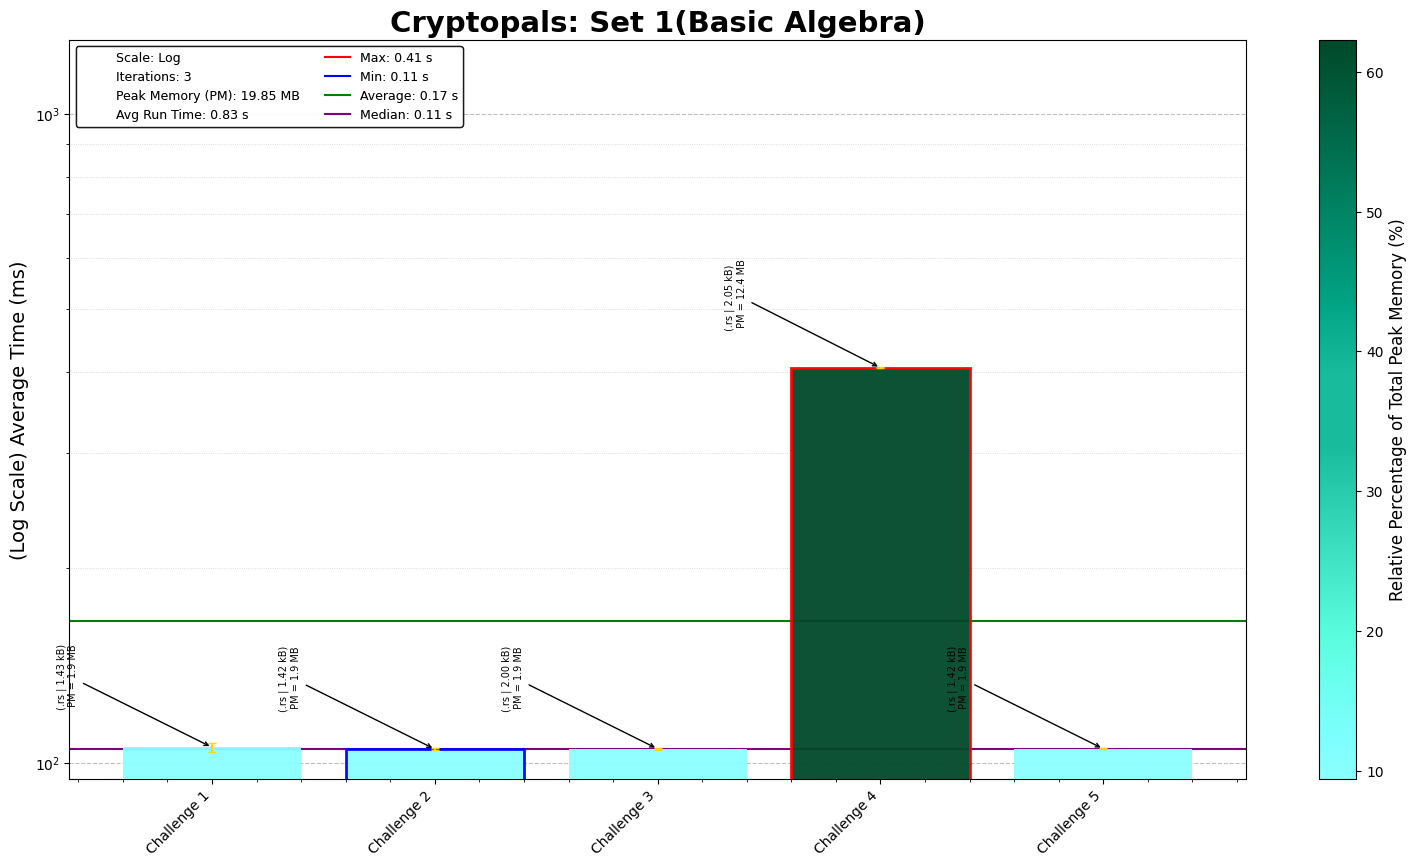
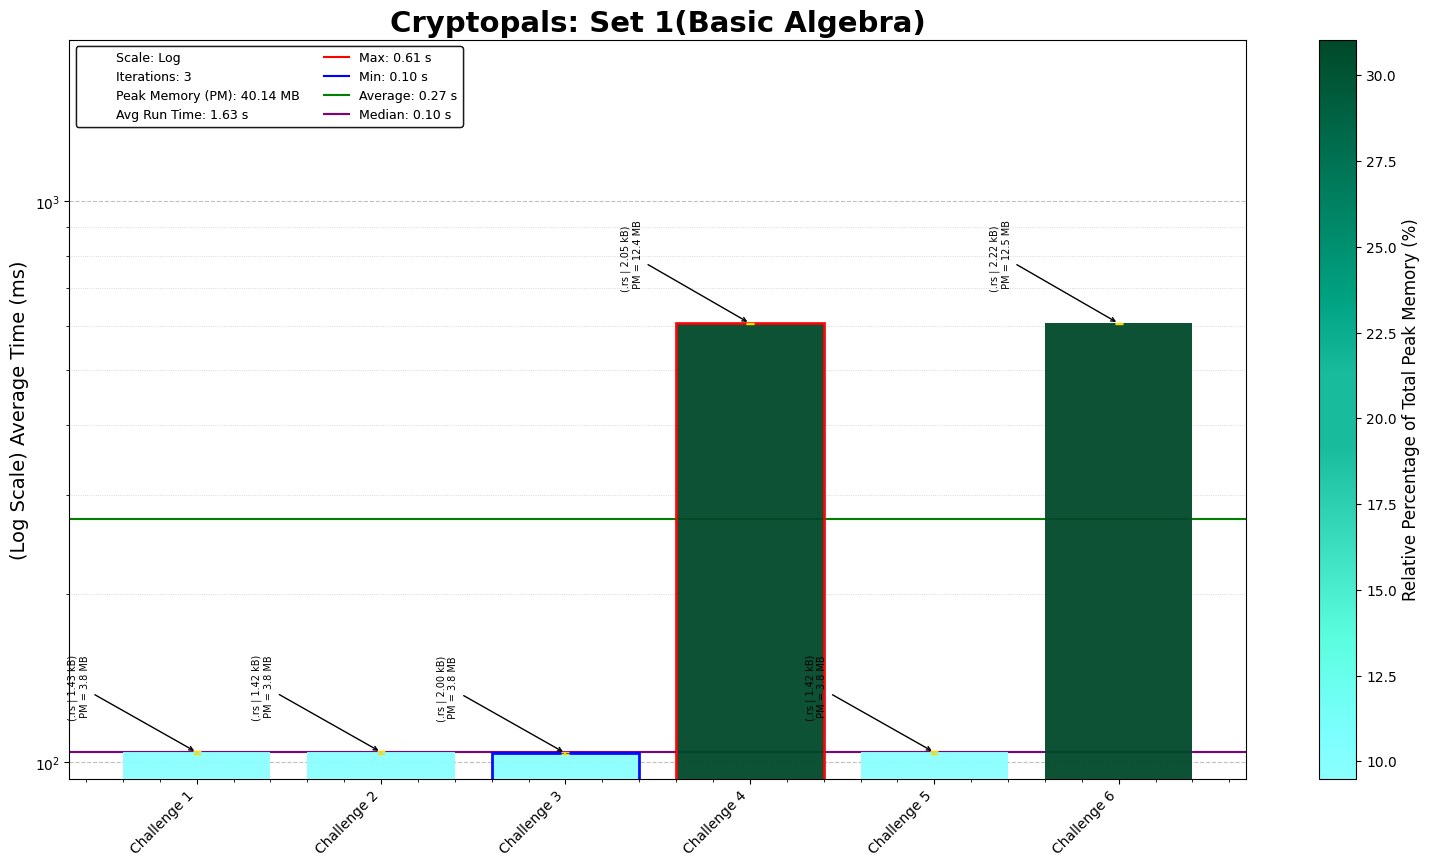
Cryptopals Set 1, Challenge 6: Break repeating-key XOR

diff --git a/src/basics/repeating_key.rs b/src/basics/repeating_key.rs
@@ -1,0 +1,142 @@
+
+use itertools::Itertools; // 0.10 or latest version
+use std::collections::HashMap;
+use crate::{ALL_CHARS};
+use crate::basics::xor_cipher::{test_xor_key, chi_square};
+
+/// Decode a Base64 string into a Vec<u8>
+/// Returns an error if the input is not valid Base64
+pub fn base64_to_bytes(line: &str) -> Result<Vec<u8>, String> {
+    // Base64 character set
+    const BASE64_TABLE: &[u8; 64] =
[1 lines of base64/hex data omitted]
+
+    let mut result = Vec::new();
+    let mut buffer = 0u32;
+    let mut bits_collected = 0;
+
+    for c in line.chars() {
+        if c == '=' {
+            break; // padding reached
+        }
+
+        // Find value in base64 table
+        let value = match BASE64_TABLE.iter().position(|&x| x == c as u8) {
+            Some(v) => v as u32,
+            None => return Err(format!("Invalid base64 character '{}'", c)),
+        };
+
+        buffer = (buffer << 6) | value;
+        bits_collected += 6;
+
+        if bits_collected >= 8 {
+            bits_collected -= 8;
+            let byte = (buffer >> bits_collected) as u8 & 0xFF;
+            result.push(byte);
+        }
+    }
+
+    Ok(result)
+}
+
+/// Convert bytes to bits
+pub fn bytes_to_bits(input: &[u8]) -> Vec<String> {
+    input
+        .iter()
+        .map(|byte| format!("{:08b}", byte)) // each u8 → "01110100"
+        .collect()
+}
+
+/// Compute Hamming (edit) distance between two byte slices
+pub fn edit_distance(bytes_1: Vec<u8>, bytes_2: Vec<u8>) -> u32 {
+    assert_eq!(bytes_1.len(), bytes_2.len(), "Inputs must be the same length");
+
+    bytes_1
+        .iter()
+        .zip(bytes_2.iter())
+        .map(|(&b1, &b2)| (b1 ^ b2).count_ones())
+        .sum()
+}
+
+/// Compute the average normalized edit distance for a list of key sizes
+pub fn compute_keysize(bytes_list: &[u8], min_keysize: usize, max_keysize: usize, num_chunks: usize) -> HashMap<usize, f32> {
+    let keysize_list: Vec<usize> = (min_keysize..=max_keysize).collect();
+    let mut keysize_dict: HashMap<usize, f32> = HashMap::new();
+
+    for &test_keysize in &keysize_list {
+        // Take the first `num_chunks` chunks of size `test_keysize`
+        let chunks: Vec<&[u8]> = bytes_list.chunks(test_keysize).take(num_chunks).collect();
+
+        // Generate all combinations of 2 chunks and compute edit distances
+        let mut edit_list: Vec<i32> = Vec::new();
+        for combo in chunks.iter().combinations(2) {
+            let combo_edit: u32 = edit_distance(combo[0].to_vec(), combo[1].to_vec());
+            edit_list.push(combo_edit as i32);
+        }
+
+        if !edit_list.is_empty() {
+            let edit_sum: i32 = edit_list.iter().sum();
+            let edit_len: usize = edit_list.len();
+            // Convert to f32 for float division
+            let normalized_edits: f32 = (edit_sum as f32 / edit_len as f32) / test_keysize as f32;
+
+            // Update the HashMap storing floats
+            keysize_dict.insert(test_keysize, normalized_edits as f32);
+        }
+    }
+
+    keysize_dict
+}
+
+/// Transpose chunks of text into blocks
+pub fn transpose_chunks(bytes_list: &Vec<u8>, keysize: usize) -> Vec<Vec<u8>> {
+    let mut chunks: Vec<Vec<u8>> = Vec::with_capacity(keysize);
+
+    for i in 0..keysize {
+        let mut chunk = Vec::new();
+        let mut j = i;
+        while j < bytes_list.len() {
+            chunk.push(bytes_list[j]);
+            j += keysize;
+        }
+        chunks.push(chunk);
+    }
+
+    chunks
+}
+
+pub fn decipher_xor_key(bytes_list: Vec<u8>, test_key: usize) -> (Vec<u8>, f64) {
+    let chunks: Vec<Vec<u8>> = transpose_chunks(&bytes_list, test_key);
+    let mut key_bytes: Vec<u8> = Vec::new();
+    let mut total_score: f64 = 0.00;
+
+    for (_, raw_bytes) in chunks.iter().enumerate() {
+        let mut cipher_dict: HashMap<String, String> = HashMap::new();
+        let mut min_score: f64 = f64::INFINITY;
+        let mut key_char: char = '\0';
+
+        for c in ALL_CHARS.chars() {
+            let norm_key: String = c.to_string();
+            if cipher_dict.contains_key(&norm_key) {
+                continue;
+            }
+
+            let test_cipher: String = test_xor_key(&raw_bytes, &c.to_string());
+            let chi_score: f64 = chi_square(&test_cipher);
+            cipher_dict.insert(norm_key.clone(), test_cipher.clone());
+
+            if chi_score <= min_score {
+                min_score = chi_score;
+                key_char = c;
+            }
+        }
+
+        // push the byte instead of the char
+        key_bytes.push(key_char as u8);
+        total_score += min_score;
+    }
+
+    let average_score: f64 = total_score / test_key as f64;
+    (key_bytes, average_score)
+
+}

diff --git a/set_01/cryptopals_06.rs b/set_01/cryptopals_06.rs
@@ -1,0 +1,65 @@
+/* Cryptopals - Set 1, Challenge 6
+Solution Started: August 26, 2025
+Puzzle Link: https://cryptopals.com/sets/1/challenges/6
+Solution by: Abbas Moosajee
+Brief: [Break repeating-key XOR] */
+
+use std::env;
+use std::fs::File;
+use std::collections::HashMap;
+use std::io::{self, BufRead, BufReader};
+use cryptopals::{base64_to_bytes, compute_keysize, decipher_xor_key};
+
+fn main() -> io::Result<()> {
+    println!("Set 01, Challenge 06: Break repeating-key XOR");
+
+    let args: Vec<String> = env::args().collect();
+    let file_path = if args.len() > 1 {
+        &args[1]
+    } else {
+        "inputs/challenge_06_input.txt"
+    };
+
+    println!("Reading file: {}", file_path);
+
+    let file: File = File::open(file_path)?;
+    let reader: BufReader<File> = BufReader::new(file);
+
+    // Collect all decoded bytes line by line
+    let mut bytes_list: Vec<u8> = Vec::new();
+    for line_result in reader.lines() {
+        let line: String = line_result?;
+
+        match base64_to_bytes(&line) {
+            Ok(decoded) => bytes_list.extend(decoded),
+            Err(e) => eprintln!("Failed to decode line: {} ({})", line, e),
+        }
+    }
+
+    // Print as raw byte vector
+    let keysize_dict: HashMap<usize, f32> = compute_keysize(&bytes_list, 2, 40, 5);
+
+    // Collect into a vector and sort by value ascending
+    let mut sorted: Vec<(usize, f32)> = keysize_dict.into_iter().collect();
+    sorted.sort_by(|a: &(usize, f32), b: &(usize, f32)| a.1.partial_cmp(&b.1).unwrap());
+    let lowest_edit: Vec<(usize, f32)> = sorted.into_iter().take(5).collect();
+
+    let mut best_bytes: Vec<u8> = Vec::new();
+    let mut best_score: f64 = f64::INFINITY;
+    let mut best_key: usize = 0;
+
+    for (test_size, _) in lowest_edit {
+        let (key_bytes, avg_chi_score) = decipher_xor_key(bytes_list.clone(), test_size);
+        if avg_chi_score < best_score {
+            best_score = avg_chi_score;
+            best_bytes = key_bytes;
+            best_key = test_size;
+        }
+    }
+
+    let key_str: std::borrow::Cow<'_, str> = String::from_utf8_lossy(&best_bytes);
+    println!(" Valid Key Size: {:?} with confidence of {:?}", best_key, best_score);
+    println!("Decoded Message: {:?}", key_str);
+
+    Ok(())
+}

diff --git a/src/lib.rs b/src/lib.rs
@@ -1,13 +1,29 @@
-pub const ALL_CHARS: &str = "ABCDEFGHIJKLMNOPQRSTUVWXYZabcdefghijklmnopqrstuvwxyz0123456789";
+// All printable ASCII characters for XOR/key cracking
+pub const ALL_CHARS: &str =
+    " !\"#$%&'()*+,-./0123456789:;<=>?@ABCDEFGHIJKLMNOPQRSTUVWXYZ[\\]^_`abcdefghijklmnopqrstuvwxyz{|}~";
 
+// Core modules
 pub mod basics {
     pub mod hex_base64;
     pub mod xor_bytes;
     pub mod xor_cipher;
+    pub mod repeating_key;
 }
+
 pub mod utils;
+
+// Re-export common utilities
 pub use utils::{select_input, run_python, string_to_bytes};
 
+// Re-export basics submodules and functions
 pub use basics::hex_base64::{hex_to_base64, hex_to_bytes, bytes_to_base64};
 pub use basics::xor_bytes::{bytes_to_hex, xor_bytes_fixed, xor_bytes_repeating};
 pub use basics::xor_cipher::{test_xor_key, english_frequencies, chi_square};
+pub use basics::repeating_key::{
+    bytes_to_bits,
+    edit_distance,
+    base64_to_bytes,
+    compute_keysize,
+    transpose_chunks,
+    decipher_xor_key,
+};

diff --git a/set_01/run_set_01.py b/set_01/run_set_01.py
@@ -21,8 +21,8 @@ if __name__ == "__main__":
 
     results = analyzer.analyze(
         problems_to_run= PROBLEMS_TO_RUN,  # Problems 1-25
-        iterations=3,
-        save_results=True,
+        iterations=1,
+        save_results=False,
         custom_dir= selected_dir / "analysis"
     )
 
